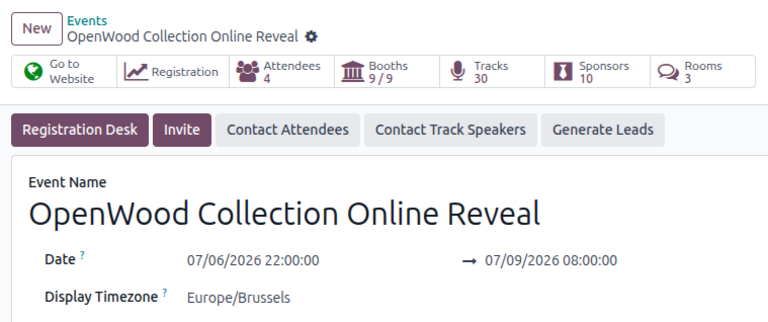
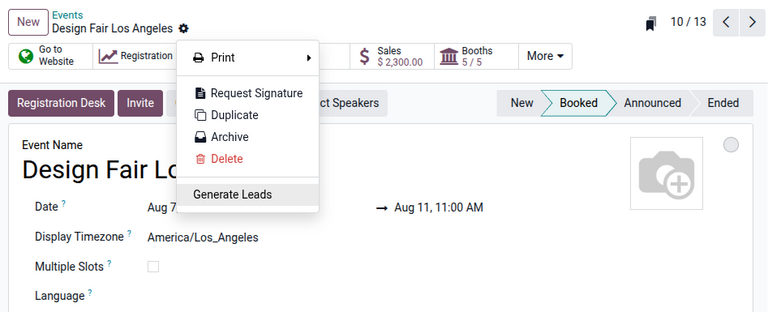
[IMP] Events: update lead generation 19.0
closes odoo/documentation#19222

X-original-commit: 150f092ddc2913e3500aa4624bf7359feaecaa1e

diff --git a/content/applications/marketing/events/promote_monetize/lead_generation.rst b/content/applications/marketing/events/promote_monetize/lead_generation.rst
@@ -115,20 +115,19 @@ rule to organize and distinguish leads by specific identifiers/categories.
    :guilabel:`Add condition` button to reveal a new, modifiable condition line.
 
    Next, they click the first field and select :guilabel:`Ticket Type` from the popover. In the
-   second field, they select `=`. In the third field, they select the :guilabel:`General Admission`
-   ticket type.
+   second field, they select `is equal to`. In the third field, they select the :guilabel:`General
+   Admission` ticket type.
 
    Because the company wants to be even more specific about attendees who purchased a
    :guilabel:`General Admission` ticket, they add two more condition lines by clicking
-   :guilabel:`New Rule` or :icon:`fa-plus` :guilabel:`(Add New Rule)`.
+   :guilabel:`New Rule`.
 
-   In the second condition line, they select :guilabel:`Source` in the first field, choose `=` in
-   the second field, and add the corresponding :guilabel:`LinkedIn` social media outlet options in
-   the third field.
+   In the second condition line, they select :guilabel:`Source` in the first field, choose `is equal
+   to` in the second field, and add the corresponding :guilabel:`LinkedIn` social media outlet
+   options in the third field.
 
    In the final condition line, they select :guilabel:`Sales Order` :icon:`fa-angle-right`
-   :guilabel:`Online payment` in the first field. Then, they select :guilabel:`is` in the second
-   field and :guilabel:`set` in the third field.
+   :guilabel:`Online payment` in the first field. Then, they select `is set` in the second field.
 
    Finally, in the :guilabel:`Lead Default Values` section, they assign these leads to their
    *Website Sales* team in the :guilabel:`Sales Team` field. They also add *Matt* as the lead
@@ -164,9 +163,10 @@ by specific criteria in each view.
 Manually generate leads
 -----------------------
 
-Leads can also be manually generated from an event form by clicking the :guilabel:`Generate Leads`
-button. This allows users to generate (or re-generate) leads as needed (e.g., after modifying a
-rule) without duplicating existing leads.
+Leads can also be manually generated from an event form by clicking the :icon:`fa-cog`
+:guilabel:`(Actions)` button at the top, then selecting :guilabel:`Generate Leads`. This allows
+users to generate (or re-generate) leads as needed (e.g., after modifying a rule) without
+duplicating existing leads.
 
 .. image:: lead_generation/generate-leads-button.png
    :alt: Generate Leads button on an event form in Odoo Events.
